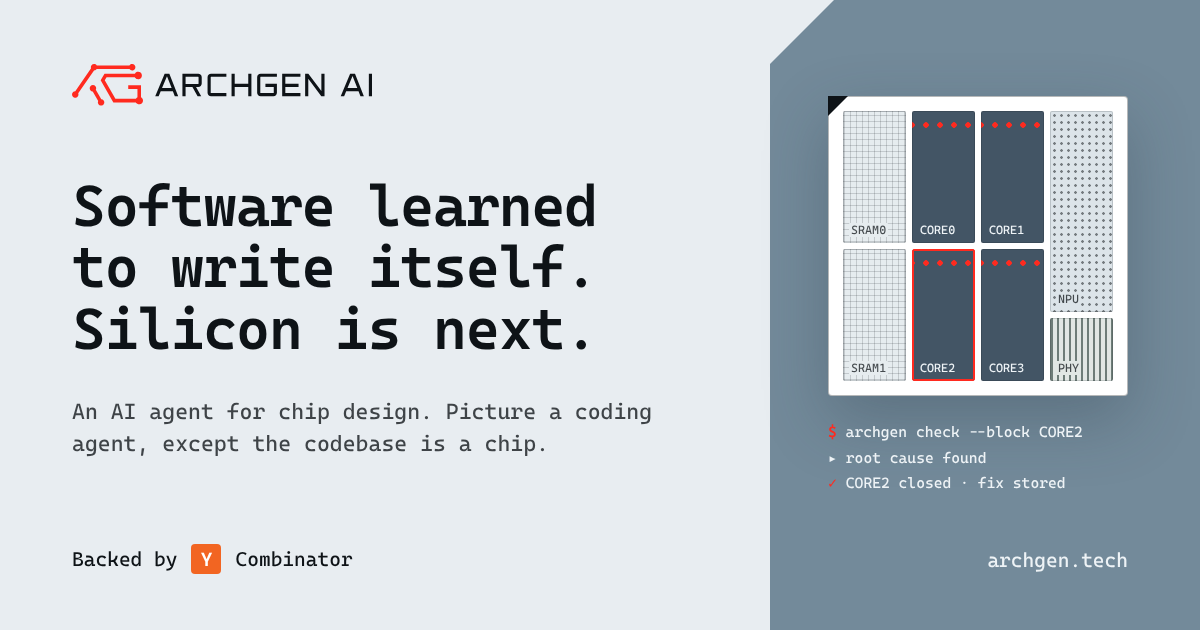
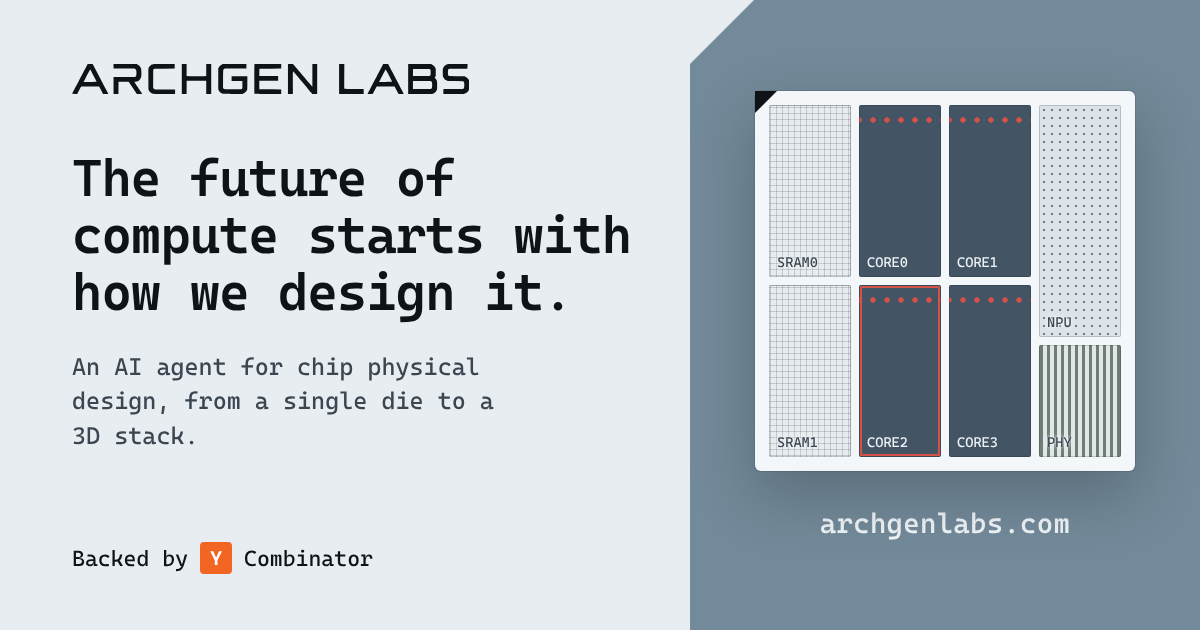
Brand, share image and domain
- One name: Archgen Labs. New 1200x630 share image built from code
  (tools/social/og.html, rendered by og.mjs): the ARCHGEN LABS wordmark, the
  live headline and pitch, the CORE2 die, archgenlabs.com. Nothing under 22px,
  so it reads in a link preview; the old terminal lines are gone.
- YC links point to ycombinator.com/companies/archgen-labs (also in sameAs).
- Every site URL (canonical, og:url, JSON-LD, sitemap, robots, llms.txt, the
  posts) moves to https://archgenlabs.com; the archgen.tech email addresses stay.
- vercel.json redirects archgen.tech, www.archgen.tech and www.archgenlabs.com
  to archgenlabs.com (308, path kept).

Claude-Session: https://claude.ai/code/session_01FwtTGFkR6uYDFri7sZxhW6

diff --git a/index.html b/index.html
@@ -10,7 +10,7 @@ if(location.protocol==="file:")document.write('<script src="'+(/\/blog\/posts\//
 <meta name="viewport" content="width=device-width, initial-scale=1, viewport-fit=cover">
 <title>Archgen Labs | The future of compute starts with how we design it.</title>
 <meta name="description" content="Archgen Labs builds an AI agent for chip physical design. It reads timing, DRC and congestion evidence, patches the flow, and keeps every fix. Backed by YC.">
-<link rel="canonical" href="https://archgen.tech/">
+<link rel="canonical" href="https://archgenlabs.com/">
 <meta name="robots" content="index, follow, max-image-preview:large">
 <meta name="author" content="Archgen Labs">
 <link rel="icon" type="image/svg+xml" href="assets/logo/archgen-ai-favicon-red.svg">
@@ -19,10 +19,10 @@ if(location.protocol==="file:")document.write('<script src="'+(/\/blog\/posts\//
 <!-- social cards -->
 <meta property="og:type" content="website">
 <meta property="og:site_name" content="Archgen Labs">
-<meta property="og:url" content="https://archgen.tech/">
+<meta property="og:url" content="https://archgenlabs.com/">
 <meta property="og:title" content="Archgen Labs | The future of compute starts with how we design it.">
 <meta property="og:description" content="The future of compute starts with how we design it. An AI agent for chip physical design, from a single die to a 3D stack.">
-<meta property="og:image" content="https://archgen.tech/assets/social/og-1200x630.png">
+<meta property="og:image" content="https://archgenlabs.com/assets/social/og-1200x630.png">
 <meta property="og:image:width" content="1200">
 <meta property="og:image:height" content="630">
 <meta property="og:image:alt" content="Archgen Labs: The future of compute starts with how we design it. A chip floorplan with the agent closing block CORE2.">
@@ -31,7 +31,7 @@ if(location.protocol==="file:")document.write('<script src="'+(/\/blog\/posts\//
 <meta name="twitter:site" content="@archgen_">
 <meta name="twitter:title" content="Archgen Labs | The future of compute starts with how we design it.">
 <meta name="twitter:description" content="The future of compute starts with how we design it. An AI agent for chip physical design, from a single die to a 3D stack.">
-<meta name="twitter:image" content="https://archgen.tech/assets/social/og-1200x630.png">
+<meta name="twitter:image" content="https://archgenlabs.com/assets/social/og-1200x630.png">
 <meta name="twitter:image:alt" content="Archgen Labs: The future of compute starts with how we design it.">
 <!-- structured data: who Archgen is, for search engines and AI assistants -->
 <script type="application/ld+json">
@@ -40,20 +40,20 @@ if(location.protocol==="file:")document.write('<script src="'+(/\/blog\/posts\//
  "@graph": [
   {
    "@type": "Organization",
-   "@id": "https://archgen.tech/#org",
+   "@id": "https://archgenlabs.com/#org",
    "name": "Archgen Labs",
    "alternateName": [
     "Archgen",
     "Archgen Labs"
    ],
-   "url": "https://archgen.tech/",
+   "url": "https://archgenlabs.com/",
    "logo": {
     "@type": "ImageObject",
-    "url": "https://archgen.tech/assets/logo/archgen-ai-icon-512.png",
+    "url": "https://archgenlabs.com/assets/logo/archgen-ai-icon-512.png",
     "width": 512,
     "height": 512
    },
-   "image": "https://archgen.tech/assets/social/og-1200x630.png",
+   "image": "https://archgenlabs.com/assets/social/og-1200x630.png",
    "description": "Archgen Labs is building an AI agent for chip design: a coding agent where the codebase is a chip. It reads run evidence (timing, DRC, congestion, logs), finds the root cause, patches the physical design flow (floorplan.tcl, constraints.sdc) and keeps what worked for the next block.",
    "slogan": "The future of compute starts with how we design it.",
    "email": "hari@archgen.tech",
@@ -96,6 +96,7 @@ if(location.protocol==="file:")document.write('<script src="'+(/\/blog\/posts\//
    ],
    "award": "Rank #1 on the IBM macro-placement benchmarks in the HRT × Partcl challenge",
    "sameAs": [
+    "https://www.ycombinator.com/companies/archgen-labs",
     "https://x.com/archgen_",
     "https://github.com/archgen-ai",
     "https://www.linkedin.com/company/archgen-ai"
@@ -103,12 +104,12 @@ if(location.protocol==="file:")document.write('<script src="'+(/\/blog\/posts\//
   },
   {
    "@type": "WebSite",
-   "@id": "https://archgen.tech/#website",
-   "url": "https://archgen.tech/",
+   "@id": "https://archgenlabs.com/#website",
+   "url": "https://archgenlabs.com/",
    "name": "Archgen Labs",
    "description": "Archgen Labs builds an AI agent for chip physical design. It reads timing, DRC and congestion evidence, patches the flow, and keeps every fix. Backed by YC.",
    "publisher": {
-    "@id": "https://archgen.tech/#org"
+    "@id": "https://archgenlabs.com/#org"
    },
    "inLanguage": "en"
   }
@@ -117,7 +118,7 @@ if(location.protocol==="file:")document.write('<script src="'+(/\/blog\/posts\//
 </script>
 <link rel="alternate" type="text/plain" href="llms.txt" title="Archgen Labs for language models">
 <!-- Set this to Archgen's YC company page once YC lists it; every "Backed by Y Combinator" link follows. -->
-<meta name="archgen:yc-url" content="https://www.ycombinator.com/">
+<meta name="archgen:yc-url" content="https://www.ycombinator.com/companies/archgen-labs">
 <link rel="preload" as="font" type="font/woff2" href="assets/fonts/cascadia-code-latin.woff2" crossorigin>
 <style>
 /* Cascadia Code (SIL OFL 1.1), self-hosted: same-origin and preloaded, so text lays out once in the real font */
@@ -984,7 +985,7 @@ main{position:relative;z-index:1;background:var(--ink);display:flow-root}
         <p class="xsub">An AI agent for chip physical design, from a single die to a 3D&nbsp;stack.</p>
         <div class="xact">
           <a class="pill xcta" href="#contact">Contact us <span aria-hidden="true">→</span></a>
-          <a class="xyc" href="https://www.ycombinator.com/" data-yc target="_blank" rel="noopener">Backed by <span class="ycm">Y</span> Combinator</a>
+          <a class="xyc" href="https://www.ycombinator.com/companies/archgen-labs" data-yc target="_blank" rel="noopener">Backed by <span class="ycm">Y</span> Combinator</a>
         </div>
         <div class="asks" role="group" aria-labelledby="asks-h">
           <span class="asks-h" id="asks-h">Ask the agent</span>
@@ -1057,7 +1058,7 @@ main{position:relative;z-index:1;background:var(--ink);display:flow-root}
       <p class="lede">It reads every run, finds why a block is failing, patches the flow and reruns. What worked carries over to the next block, on one die or across a stack.</p>
     </div>
     <dl class="xstats">
-      <div><dt>Backed by</dt><dd><a class="yc" href="https://www.ycombinator.com/" data-yc target="_blank" rel="noopener"><i>Y</i><b>Combinator</b></a></dd></div>
+      <div><dt>Backed by</dt><dd><a class="yc" href="https://www.ycombinator.com/companies/archgen-labs" data-yc target="_blank" rel="noopener"><i>Y</i><b>Combinator</b></a></dd></div>
     </dl>
   </section>
 
@@ -1367,7 +1368,7 @@ main{position:relative;z-index:1;background:var(--ink);display:flow-root}
   // touching document.fonts.ready forces a layout, so even that waits for idle time
   defer(() => { buildRail(); if(document.fonts && document.fonts.ready) document.fonts.ready.then(() => defer(buildRail)); });
 
-  const YC_URL = (document.querySelector('meta[name="archgen:yc-url"]') || {}).content || 'https://www.ycombinator.com/';
+  const YC_URL = (document.querySelector('meta[name="archgen:yc-url"]') || {}).content || 'https://www.ycombinator.com/companies/archgen-labs';
   document.querySelectorAll('a[data-yc]').forEach(a => { a.href = YC_URL; });
 
   /* ---------------- glyph decode ---------------- */

diff --git a/blog/posts/how-we-ranked-first-in-the-partcl.html b/blog/posts/how-we-ranked-first-in-the-partcl.html
@@ -10,21 +10,21 @@ if(location.protocol==="file:")document.write('<script src="'+(/\/blog\/posts\//
 <meta name="viewport" content="width=device-width, initial-scale=1, viewport-fit=cover">
 <title>How We Ranked First in the HRT (Hudson River Trading) and Partcl Macro Placement Challenge | Archgen Labs</title>
 <meta name="description" content="A technical write-up of the approach behind our verified rank-1 score on the IBM macro-placement benchmarks.">
-<link rel="canonical" href="https://archgen.tech/blog/posts/how-we-ranked-first-in-the-partcl.html">
+<link rel="canonical" href="https://archgenlabs.com/blog/posts/how-we-ranked-first-in-the-partcl.html">
 <meta name="author" content="Naveen Venkat &amp; Hariharan Ayappane">
 <meta name="theme-color" content="#E8EDF1">
 <link rel="icon" type="image/svg+xml" href="../../assets/logo/archgen-ai-favicon-red.svg">
 <link rel="apple-touch-icon" href="../../assets/logo/apple-touch-icon.png">
 <meta property="og:type" content="article">
 <meta property="og:site_name" content="Archgen Labs">
-<meta property="og:url" content="https://archgen.tech/blog/posts/how-we-ranked-first-in-the-partcl.html">
+<meta property="og:url" content="https://archgenlabs.com/blog/posts/how-we-ranked-first-in-the-partcl.html">
 <meta property="og:title" content="How We Ranked First in the HRT (Hudson River Trading) and Partcl Macro Placement Challenge">
 <meta property="og:description" content="A technical write-up of the approach behind our verified rank-1 score on the IBM macro-placement benchmarks.">
-<meta property="og:image" content="https://archgen.tech/assets/social/og-1200x630.png">
+<meta property="og:image" content="https://archgenlabs.com/assets/social/og-1200x630.png">
 <meta property="article:published_time" content="2026-06-20">
 <meta name="twitter:card" content="summary_large_image">
 <meta name="twitter:site" content="@archgen_">
-<script type="application/ld+json">{"@context": "https://schema.org", "@type": "BlogPosting", "headline": "How We Ranked First in the HRT (Hudson River Trading) and Partcl Macro Placement Challenge", "description": "A technical write-up of the approach behind our verified rank-1 score on the IBM macro-placement benchmarks.", "datePublished": "2026-06-20", "url": "https://archgen.tech/blog/posts/how-we-ranked-first-in-the-partcl.html", "mainEntityOfPage": "https://archgen.tech/blog/posts/how-we-ranked-first-in-the-partcl.html", "author": [{"@type": "Person", "name": "Naveen Venkat"}, {"@type": "Person", "name": "Hariharan Ayappane"}], "publisher": {"@type": "Organization", "name": "Archgen Labs", "url": "https://archgen.tech/", "logo": {"@type": "ImageObject", "url": "https://archgen.tech/assets/logo/archgen-ai-icon-512.png"}}, "image": "https://archgen.tech/assets/social/og-1200x630.png"}</script>
+<script type="application/ld+json">{"@context": "https://schema.org", "@type": "BlogPosting", "headline": "How We Ranked First in the HRT (Hudson River Trading) and Partcl Macro Placement Challenge", "description": "A technical write-up of the approach behind our verified rank-1 score on the IBM macro-placement benchmarks.", "datePublished": "2026-06-20", "url": "https://archgenlabs.com/blog/posts/how-we-ranked-first-in-the-partcl.html", "mainEntityOfPage": "https://archgenlabs.com/blog/posts/how-we-ranked-first-in-the-partcl.html", "author": [{"@type": "Person", "name": "Naveen Venkat"}, {"@type": "Person", "name": "Hariharan Ayappane"}], "publisher": {"@type": "Organization", "name": "Archgen Labs", "url": "https://archgenlabs.com/", "logo": {"@type": "ImageObject", "url": "https://archgenlabs.com/assets/logo/archgen-ai-icon-512.png"}}, "image": "https://archgenlabs.com/assets/social/og-1200x630.png"}</script>
 <link rel="preload" as="font" type="font/woff2" href="../../assets/fonts/cascadia-code-latin.woff2" crossorigin>
 <link rel="stylesheet" href="../post.css">
 <style>.ag-fig,.fig{margin:0}.fig-plate{position:relative;aspect-ratio:16/11;border-radius:14px;background:#f7fafb;box-shadow:0 0 0 1px #738a9a;overflow:hidden;outline:none;isolation:isolate}.fig-plate:focus-visible{box-shadow:0 0 0 1px #738a9a,0 0 0 3px #d65148}.fig-poster,.fig-poster img,.ag3d-canvas{position:absolute;inset:0;width:100%;height:100%;display:block}.fig-poster img{object-fit:cover}.ag3d-canvas{opacity:0;transition:opacity .35s cubic-bezier(.2,.9,.3,1);cursor:grab;touch-action:pan-y}.ag3d-canvas:active{cursor:grabbing}.is-3d .ag3d-canvas{opacity:1}.is-live .fig-poster{visibility:hidden}.fig-corner{position:absolute;z-index:1;pointer-events:none;color:#0e131799;font:10.5px/1 Cascadia Code,ui-monospace,Consolas,monospace;letter-spacing:.04em;white-space:nowrap}.fig-corner[data-corner=fig]{top:18px;left:20px;color:#0e1317bd}.fig-corner[data-corner=title]{top:18px;right:20px;text-transform:uppercase;letter-spacing:.1em}.fig-corner[data-corner=hint]{bottom:18px;left:20px;text-transform:uppercase;letter-spacing:.1em}.fig-corner[data-corner=readout]{bottom:18px;right:20px;color:#0e1317bd;font-variant-numeric:tabular-nums}.fig-keys{display:flex;flex-wrap:wrap;gap:6px 18px;margin-top:12px;font:13px/1.55 Cascadia Code,ui-monospace,Consolas,monospace;color:#0e1317bd}.fig-key{display:inline-flex;align-items:center;gap:8px}.fig-key:before{content:"";flex:none;width:8px;height:8px;border:1.5px solid #435565;border-radius:1.5px;transform:rotate(45deg) skew(-12deg,-12deg)}.fig-key[data-mark=red]:before{border-color:#d65148;background:#d6514824}@media (max-width:560px){.fig-plate{aspect-ratio:10/9}.fig-corner[data-corner=fig],.fig-corner[data-corner=title]{top:14px}.fig-corner[data-corner=fig],.fig-corner[data-corner=hint]{left:14px}.fig-corner[data-corner=title],.fig-corner[data-corner=readout]{right:14px}.fig-corner[data-corner=hint]{bottom:32px}.fig-corner[data-corner=readout]{bottom:14px}}

diff --git a/blog/posts/why-chip-design-takes-18-months.html b/blog/posts/why-chip-design-takes-18-months.html
@@ -10,21 +10,21 @@ if(location.protocol==="file:")document.write('<script src="'+(/\/blog\/posts\//
 <meta name="viewport" content="width=device-width, initial-scale=1, viewport-fit=cover">
 <title>Why Chip Design Still Takes 18 Months, and What AI Can Actually Fix | Archgen Labs</title>
 <meta name="description" content="The semiconductor industry designs chips the same way it did a decade ago. That&#x27;s about to change.">
-<link rel="canonical" href="https://archgen.tech/blog/posts/why-chip-design-takes-18-months.html">
+<link rel="canonical" href="https://archgenlabs.com/blog/posts/why-chip-design-takes-18-months.html">
 <meta name="author" content="Hariharan Ayappane &amp; Naveen Venkat">
 <meta name="theme-color" content="#E8EDF1">
 <link rel="icon" type="image/svg+xml" href="../../assets/logo/archgen-ai-favicon-red.svg">
 <link rel="apple-touch-icon" href="../../assets/logo/apple-touch-icon.png">
 <meta property="og:type" content="article">
 <meta property="og:site_name" content="Archgen Labs">
-<meta property="og:url" content="https://archgen.tech/blog/posts/why-chip-design-takes-18-months.html">
+<meta property="og:url" content="https://archgenlabs.com/blog/posts/why-chip-design-takes-18-months.html">
 <meta property="og:title" content="Why Chip Design Still Takes 18 Months, and What AI Can Actually Fix">
 <meta property="og:description" content="The semiconductor industry designs chips the same way it did a decade ago. That&#x27;s about to change.">
-<meta property="og:image" content="https://archgen.tech/assets/social/og-1200x630.png">
+<meta property="og:image" content="https://archgenlabs.com/assets/social/og-1200x630.png">
 <meta property="article:published_time" content="2026-04-06">
 <meta name="twitter:card" content="summary_large_image">
 <meta name="twitter:site" content="@archgen_">
-<script type="application/ld+json">{"@context": "https://schema.org", "@type": "BlogPosting", "headline": "Why Chip Design Still Takes 18 Months, and What AI Can Actually Fix", "description": "The semiconductor industry designs chips the same way it did a decade ago. That's about to change.", "datePublished": "2026-04-06", "url": "https://archgen.tech/blog/posts/why-chip-design-takes-18-months.html", "mainEntityOfPage": "https://archgen.tech/blog/posts/why-chip-design-takes-18-months.html", "author": [{"@type": "Person", "name": "Hariharan Ayappane"}, {"@type": "Person", "name": "Naveen Venkat"}], "publisher": {"@type": "Organization", "name": "Archgen Labs", "url": "https://archgen.tech/", "logo": {"@type": "ImageObject", "url": "https://archgen.tech/assets/logo/archgen-ai-icon-512.png"}}, "image": "https://archgen.tech/assets/social/og-1200x630.png"}</script>
+<script type="application/ld+json">{"@context": "https://schema.org", "@type": "BlogPosting", "headline": "Why Chip Design Still Takes 18 Months, and What AI Can Actually Fix", "description": "The semiconductor industry designs chips the same way it did a decade ago. That's about to change.", "datePublished": "2026-04-06", "url": "https://archgenlabs.com/blog/posts/why-chip-design-takes-18-months.html", "mainEntityOfPage": "https://archgenlabs.com/blog/posts/why-chip-design-takes-18-months.html", "author": [{"@type": "Person", "name": "Hariharan Ayappane"}, {"@type": "Person", "name": "Naveen Venkat"}], "publisher": {"@type": "Organization", "name": "Archgen Labs", "url": "https://archgenlabs.com/", "logo": {"@type": "ImageObject", "url": "https://archgenlabs.com/assets/logo/archgen-ai-icon-512.png"}}, "image": "https://archgenlabs.com/assets/social/og-1200x630.png"}</script>
 <link rel="preload" as="font" type="font/woff2" href="../../assets/fonts/cascadia-code-latin.woff2" crossorigin>
 <link rel="stylesheet" href="../post.css">
 <style>.ag-fig,.fig{margin:0}.fig-plate{position:relative;aspect-ratio:16/11;border-radius:14px;background:#f7fafb;box-shadow:0 0 0 1px #738a9a;overflow:hidden;outline:none;isolation:isolate}.fig-plate:focus-visible{box-shadow:0 0 0 1px #738a9a,0 0 0 3px #d65148}.fig-poster,.fig-poster img,.ag3d-canvas{position:absolute;inset:0;width:100%;height:100%;display:block}.fig-poster img{object-fit:cover}.ag3d-canvas{opacity:0;transition:opacity .35s cubic-bezier(.2,.9,.3,1);cursor:grab;touch-action:pan-y}.ag3d-canvas:active{cursor:grabbing}.is-3d .ag3d-canvas{opacity:1}.is-live .fig-poster{visibility:hidden}.fig-corner{position:absolute;z-index:1;pointer-events:none;color:#0e131799;font:10.5px/1 Cascadia Code,ui-monospace,Consolas,monospace;letter-spacing:.04em;white-space:nowrap}.fig-corner[data-corner=fig]{top:18px;left:20px;color:#0e1317bd}.fig-corner[data-corner=title]{top:18px;right:20px;text-transform:uppercase;letter-spacing:.1em}.fig-corner[data-corner=hint]{bottom:18px;left:20px;text-transform:uppercase;letter-spacing:.1em}.fig-corner[data-corner=readout]{bottom:18px;right:20px;color:#0e1317bd;font-variant-numeric:tabular-nums}.fig-keys{display:flex;flex-wrap:wrap;gap:6px 18px;margin-top:12px;font:13px/1.55 Cascadia Code,ui-monospace,Consolas,monospace;color:#0e1317bd}.fig-key{display:inline-flex;align-items:center;gap:8px}.fig-key:before{content:"";flex:none;width:8px;height:8px;border:1.5px solid #435565;border-radius:1.5px;transform:rotate(45deg) skew(-12deg,-12deg)}.fig-key[data-mark=red]:before{border-color:#d65148;background:#d6514824}@media (max-width:560px){.fig-plate{aspect-ratio:10/9}.fig-corner[data-corner=fig],.fig-corner[data-corner=title]{top:14px}.fig-corner[data-corner=fig],.fig-corner[data-corner=hint]{left:14px}.fig-corner[data-corner=title],.fig-corner[data-corner=readout]{right:14px}.fig-corner[data-corner=hint]{bottom:32px}.fig-corner[data-corner=readout]{bottom:14px}}

diff --git a/blog/posts/disrupting-semiconductor-ai-agents.html b/blog/posts/disrupting-semiconductor-ai-agents.html
@@ -10,21 +10,21 @@ if(location.protocol==="file:")document.write('<script src="'+(/\/blog\/posts\//
 <meta name="viewport" content="width=device-width, initial-scale=1, viewport-fit=cover">
 <title>On Disrupting the Semiconductor Industry with AI Agents | Archgen Labs</title>
 <meta name="description" content="Accelerating chip design of CPUs, GPUs and TPUs using an ecosystem of AI agents">
-<link rel="canonical" href="https://archgen.tech/blog/posts/disrupting-semiconductor-ai-agents.html">
+<link rel="canonical" href="https://archgenlabs.com/blog/posts/disrupting-semiconductor-ai-agents.html">
 <meta name="author" content="Hariharan Ayappane &amp; Naveen Venkat">
 <meta name="theme-color" content="#E8EDF1">
 <link rel="icon" type="image/svg+xml" href="../../assets/logo/archgen-ai-favicon-red.svg">
 <link rel="apple-touch-icon" href="../../assets/logo/apple-touch-icon.png">
 <meta property="og:type" content="article">
 <meta property="og:site_name" content="Archgen Labs">
-<meta property="og:url" content="https://archgen.tech/blog/posts/disrupting-semiconductor-ai-agents.html">
+<meta property="og:url" content="https://archgenlabs.com/blog/posts/disrupting-semiconductor-ai-agents.html">
 <meta property="og:title" content="On Disrupting the Semiconductor Industry with AI Agents">
 <meta property="og:description" content="Accelerating chip design of CPUs, GPUs and TPUs using an ecosystem of AI agents">
-<meta property="og:image" content="https://archgen.tech/assets/social/og-1200x630.png">
+<meta property="og:image" content="https://archgenlabs.com/assets/social/og-1200x630.png">
 <meta property="article:published_time" content="2025-12-17">
 <meta name="twitter:card" content="summary_large_image">
 <meta name="twitter:site" content="@archgen_">
-<script type="application/ld+json">{"@context": "https://schema.org", "@type": "BlogPosting", "headline": "On Disrupting the Semiconductor Industry with AI Agents", "description": "Accelerating chip design of CPUs, GPUs and TPUs using an ecosystem of AI agents", "datePublished": "2025-12-17", "url": "https://archgen.tech/blog/posts/disrupting-semiconductor-ai-agents.html", "mainEntityOfPage": "https://archgen.tech/blog/posts/disrupting-semiconductor-ai-agents.html", "author": [{"@type": "Person", "name": "Hariharan Ayappane"}, {"@type": "Person", "name": "Naveen Venkat"}], "publisher": {"@type": "Organization", "name": "Archgen Labs", "url": "https://archgen.tech/", "logo": {"@type": "ImageObject", "url": "https://archgen.tech/assets/logo/archgen-ai-icon-512.png"}}, "image": "https://archgen.tech/assets/social/og-1200x630.png"}</script>
+<script type="application/ld+json">{"@context": "https://schema.org", "@type": "BlogPosting", "headline": "On Disrupting the Semiconductor Industry with AI Agents", "description": "Accelerating chip design of CPUs, GPUs and TPUs using an ecosystem of AI agents", "datePublished": "2025-12-17", "url": "https://archgenlabs.com/blog/posts/disrupting-semiconductor-ai-agents.html", "mainEntityOfPage": "https://archgenlabs.com/blog/posts/disrupting-semiconductor-ai-agents.html", "author": [{"@type": "Person", "name": "Hariharan Ayappane"}, {"@type": "Person", "name": "Naveen Venkat"}], "publisher": {"@type": "Organization", "name": "Archgen Labs", "url": "https://archgenlabs.com/", "logo": {"@type": "ImageObject", "url": "https://archgenlabs.com/assets/logo/archgen-ai-icon-512.png"}}, "image": "https://archgenlabs.com/assets/social/og-1200x630.png"}</script>
 <link rel="preload" as="font" type="font/woff2" href="../../assets/fonts/cascadia-code-latin.woff2" crossorigin>
 <link rel="stylesheet" href="../post.css">
 <style>.ag-fig,.fig{margin:0}.fig-plate{position:relative;aspect-ratio:16/11;border-radius:14px;background:#f7fafb;box-shadow:0 0 0 1px #738a9a;overflow:hidden;outline:none;isolation:isolate}.fig-plate:focus-visible{box-shadow:0 0 0 1px #738a9a,0 0 0 3px #d65148}.fig-poster,.fig-poster img,.ag3d-canvas{position:absolute;inset:0;width:100%;height:100%;display:block}.fig-poster img{object-fit:cover}.ag3d-canvas{opacity:0;transition:opacity .35s cubic-bezier(.2,.9,.3,1);cursor:grab;touch-action:pan-y}.ag3d-canvas:active{cursor:grabbing}.is-3d .ag3d-canvas{opacity:1}.is-live .fig-poster{visibility:hidden}.fig-corner{position:absolute;z-index:1;pointer-events:none;color:#0e131799;font:10.5px/1 Cascadia Code,ui-monospace,Consolas,monospace;letter-spacing:.04em;white-space:nowrap}.fig-corner[data-corner=fig]{top:18px;left:20px;color:#0e1317bd}.fig-corner[data-corner=title]{top:18px;right:20px;text-transform:uppercase;letter-spacing:.1em}.fig-corner[data-corner=hint]{bottom:18px;left:20px;text-transform:uppercase;letter-spacing:.1em}.fig-corner[data-corner=readout]{bottom:18px;right:20px;color:#0e1317bd;font-variant-numeric:tabular-nums}.fig-keys{display:flex;flex-wrap:wrap;gap:6px 18px;margin-top:12px;font:13px/1.55 Cascadia Code,ui-monospace,Consolas,monospace;color:#0e1317bd}.fig-key{display:inline-flex;align-items:center;gap:8px}.fig-key:before{content:"";flex:none;width:8px;height:8px;border:1.5px solid #435565;border-radius:1.5px;transform:rotate(45deg) skew(-12deg,-12deg)}.fig-key[data-mark=red]:before{border-color:#d65148;background:#d6514824}@media (max-width:560px){.fig-plate{aspect-ratio:10/9}.fig-corner[data-corner=fig],.fig-corner[data-corner=title]{top:14px}.fig-corner[data-corner=fig],.fig-corner[data-corner=hint]{left:14px}.fig-corner[data-corner=title],.fig-corner[data-corner=readout]{right:14px}.fig-corner[data-corner=hint]{bottom:32px}.fig-corner[data-corner=readout]{bottom:14px}}

diff --git a/blog/posts/cognitive-agents-next-era-silicon.html b/blog/posts/cognitive-agents-next-era-silicon.html
@@ -10,21 +10,21 @@ if(location.protocol==="file:")document.write('<script src="'+(/\/blog\/posts\//
 <meta name="viewport" content="width=device-width, initial-scale=1, viewport-fit=cover">
 <title>Cognitive Agents for the Next Era of Silicon | Archgen Labs</title>
 <meta name="description" content="Marrying Reinforcement Learning with Agentic Reasoning to accelerate Physical Design (PD)">
-<link rel="canonical" href="https://archgen.tech/blog/posts/cognitive-agents-next-era-silicon.html">
+<link rel="canonical" href="https://archgenlabs.com/blog/posts/cognitive-agents-next-era-silicon.html">
 <meta name="author" content="Hariharan Ayappane &amp; Naveen Venkat">
 <meta name="theme-color" content="#E8EDF1">
 <link rel="icon" type="image/svg+xml" href="../../assets/logo/archgen-ai-favicon-red.svg">
 <link rel="apple-touch-icon" href="../../assets/logo/apple-touch-icon.png">
 <meta property="og:type" content="article">
 <meta property="og:site_name" content="Archgen Labs">
-<meta property="og:url" content="https://archgen.tech/blog/posts/cognitive-agents-next-era-silicon.html">
+<meta property="og:url" content="https://archgenlabs.com/blog/posts/cognitive-agents-next-era-silicon.html">
 <meta property="og:title" content="Cognitive Agents for the Next Era of Silicon">
 <meta property="og:description" content="Marrying Reinforcement Learning with Agentic Reasoning to accelerate Physical Design (PD)">
-<meta property="og:image" content="https://archgen.tech/assets/social/og-1200x630.png">
+<meta property="og:image" content="https://archgenlabs.com/assets/social/og-1200x630.png">
 <meta property="article:published_time" content="2026-02-20">
 <meta name="twitter:card" content="summary_large_image">
 <meta name="twitter:site" content="@archgen_">
-<script type="application/ld+json">{"@context": "https://schema.org", "@type": "BlogPosting", "headline": "Cognitive Agents for the Next Era of Silicon", "description": "Marrying Reinforcement Learning with Agentic Reasoning to accelerate Physical Design (PD)", "datePublished": "2026-02-20", "url": "https://archgen.tech/blog/posts/cognitive-agents-next-era-silicon.html", "mainEntityOfPage": "https://archgen.tech/blog/posts/cognitive-agents-next-era-silicon.html", "author": [{"@type": "Person", "name": "Hariharan Ayappane"}, {"@type": "Person", "name": "Naveen Venkat"}], "publisher": {"@type": "Organization", "name": "Archgen Labs", "url": "https://archgen.tech/", "logo": {"@type": "ImageObject", "url": "https://archgen.tech/assets/logo/archgen-ai-icon-512.png"}}, "image": "https://archgen.tech/assets/social/og-1200x630.png"}</script>
+<script type="application/ld+json">{"@context": "https://schema.org", "@type": "BlogPosting", "headline": "Cognitive Agents for the Next Era of Silicon", "description": "Marrying Reinforcement Learning with Agentic Reasoning to accelerate Physical Design (PD)", "datePublished": "2026-02-20", "url": "https://archgenlabs.com/blog/posts/cognitive-agents-next-era-silicon.html", "mainEntityOfPage": "https://archgenlabs.com/blog/posts/cognitive-agents-next-era-silicon.html", "author": [{"@type": "Person", "name": "Hariharan Ayappane"}, {"@type": "Person", "name": "Naveen Venkat"}], "publisher": {"@type": "Organization", "name": "Archgen Labs", "url": "https://archgenlabs.com/", "logo": {"@type": "ImageObject", "url": "https://archgenlabs.com/assets/logo/archgen-ai-icon-512.png"}}, "image": "https://archgenlabs.com/assets/social/og-1200x630.png"}</script>
 <link rel="preload" as="font" type="font/woff2" href="../../assets/fonts/cascadia-code-latin.woff2" crossorigin>
 <link rel="stylesheet" href="../post.css">
 <style>.ag-fig,.fig{margin:0}.fig-plate{position:relative;aspect-ratio:16/11;border-radius:14px;background:#f7fafb;box-shadow:0 0 0 1px #738a9a;overflow:hidden;outline:none;isolation:isolate}.fig-plate:focus-visible{box-shadow:0 0 0 1px #738a9a,0 0 0 3px #d65148}.fig-poster,.fig-poster img,.ag3d-canvas{position:absolute;inset:0;width:100%;height:100%;display:block}.fig-poster img{object-fit:cover}.ag3d-canvas{opacity:0;transition:opacity .35s cubic-bezier(.2,.9,.3,1);cursor:grab;touch-action:pan-y}.ag3d-canvas:active{cursor:grabbing}.is-3d .ag3d-canvas{opacity:1}.is-live .fig-poster{visibility:hidden}.fig-corner{position:absolute;z-index:1;pointer-events:none;color:#0e131799;font:10.5px/1 Cascadia Code,ui-monospace,Consolas,monospace;letter-spacing:.04em;white-space:nowrap}.fig-corner[data-corner=fig]{top:18px;left:20px;color:#0e1317bd}.fig-corner[data-corner=title]{top:18px;right:20px;text-transform:uppercase;letter-spacing:.1em}.fig-corner[data-corner=hint]{bottom:18px;left:20px;text-transform:uppercase;letter-spacing:.1em}.fig-corner[data-corner=readout]{bottom:18px;right:20px;color:#0e1317bd;font-variant-numeric:tabular-nums}.fig-keys{display:flex;flex-wrap:wrap;gap:6px 18px;margin-top:12px;font:13px/1.55 Cascadia Code,ui-monospace,Consolas,monospace;color:#0e1317bd}.fig-key{display:inline-flex;align-items:center;gap:8px}.fig-key:before{content:"";flex:none;width:8px;height:8px;border:1.5px solid #435565;border-radius:1.5px;transform:rotate(45deg) skew(-12deg,-12deg)}.fig-key[data-mark=red]:before{border-color:#d65148;background:#d6514824}@media (max-width:560px){.fig-plate{aspect-ratio:10/9}.fig-corner[data-corner=fig],.fig-corner[data-corner=title]{top:14px}.fig-corner[data-corner=fig],.fig-corner[data-corner=hint]{left:14px}.fig-corner[data-corner=title],.fig-corner[data-corner=readout]{right:14px}.fig-corner[data-corner=hint]{bottom:32px}.fig-corner[data-corner=readout]{bottom:14px}}

diff --git a/tools/social/og.html b/tools/social/og.html
@@ -1,0 +1,59 @@
+<!doctype html>
+<!-- The link-preview card (1200×630). Edit the words or the die here, then render it:
+     node tools/social/og.mjs   →   assets/social/og-1200x630.png
+     Everything is set large enough to read in a small link preview: nothing under 22px. -->
+<html lang="en">
+<head>
+<meta charset="utf-8">
+<style>
+@font-face{font-family:'Cascadia Code';font-weight:200 700;src:url(../../assets/fonts/cascadia-code-latin.woff2) format('woff2')}
+:root{--ink:#E8EDF1;--paper:#0E1317;--paper-2:#3B4651;--steel:#738A9A;--slate:#435565;--flare:#D65148;--on-slate:#EEF3F6;--yc:#F26522}
+*{box-sizing:border-box}
+html,body{margin:0;width:1200px;height:630px;overflow:hidden;background:var(--ink);color:var(--paper);font-family:'Cascadia Code',ui-monospace,monospace}
+.card{position:relative;width:1200px;height:630px;display:grid;grid-template-columns:690px 510px}
+.copy{padding:64px 0 56px 72px;display:flex;flex-direction:column}
+.mark{height:30px;width:auto;align-self:flex-start;color:var(--paper);display:block}
+h1{margin:56px 24px 0 0;font-size:52px;line-height:1.1;font-weight:600;letter-spacing:-.02em}
+.pitch{margin:28px 0 0;font-size:24px;line-height:1.45;color:var(--paper-2);max-width:30ch}
+.yc{margin-top:auto;display:flex;align-items:center;gap:12px;font-size:22px}
+.yc i{font-style:normal;display:grid;place-items:center;width:32px;height:32px;border-radius:4px;background:var(--yc);color:#fff;font-weight:700;font-size:20px}
+.stage{position:relative;background:var(--steel);clip-path:polygon(64px 0,100% 0,100% 100%,0 100%,0 64px);display:flex;flex-direction:column;justify-content:center;align-items:center;gap:36px;padding:56px 48px}
+.die{width:380px;aspect-ratio:1;background:#F4F7F9;border-radius:6px;padding:14px;display:grid;gap:8px;
+  grid-template-columns:repeat(4,1fr);grid-template-rows:repeat(6,1fr);
+  grid-template-areas:"s0 c0 c1 n" "s0 c0 c1 n" "s0 c0 c1 n" "s1 c2 c3 n" "s1 c2 c3 p" "s1 c2 c3 p";
+  box-shadow:0 0 0 1px rgba(14,19,23,.12),0 24px 60px rgba(14,19,23,.25);position:relative}
+.die::before{content:"";position:absolute;left:0;top:0;border-style:solid;border-width:22px 22px 0 0;border-color:var(--paper) transparent transparent transparent}
+.b{position:relative;text-shadow:0 0 3px #F4F7F9,0 0 6px #F4F7F9;border:1px solid rgba(14,19,23,.18);border-radius:2px;display:flex;align-items:flex-end;padding:6px 7px;font-size:14px;color:var(--paper-2)}
+.sram{background-color:#E6ECEF;background-image:repeating-linear-gradient(0deg,rgba(14,19,23,.16) 0 1px,transparent 1px 6px),repeating-linear-gradient(90deg,rgba(14,19,23,.16) 0 1px,transparent 1px 6px)}
+.cpu{text-shadow:none;background-color:var(--slate);background-image:radial-gradient(circle,var(--flare) 0 2.4px,transparent 3px);background-size:14px 14px;background-position:6px 7px;background-repeat:repeat-x;color:var(--on-slate)}
+.cpu.hot{box-shadow:inset 0 0 0 2px var(--flare)}
+.npu{background-color:#DCE4E9;align-items:flex-end;background-image:radial-gradient(rgba(14,19,23,.5) 1.2px,transparent 1.6px);background-size:8px 8px}
+.phy{background-color:#E1E7E4;background-image:repeating-linear-gradient(90deg,rgba(104,119,114,.95) 0 3px,transparent 3px 7px)}
+.url{font-size:28px;font-weight:500;color:var(--on-slate);letter-spacing:.01em}
+</style>
+</head>
+<body>
+<div class="card">
+  <div class="copy">
+    <svg class="mark" id="mark" viewBox="0 0 2066 156" aria-label="Archgen Labs"></svg>
+    <h1>The future of compute starts with how we design it.</h1>
+    <p class="pitch">An AI agent for chip physical design, from a single die to a 3D stack.</p>
+    <div class="yc">Backed by <i>Y</i> Combinator</div>
+  </div>
+  <div class="stage">
+    <div class="die">
+      <div class="b sram" style="grid-area:s0">SRAM0</div><div class="b cpu" style="grid-area:c0">CORE0</div><div class="b cpu" style="grid-area:c1">CORE1</div><div class="b npu" style="grid-area:n">NPU</div>
+      <div class="b sram" style="grid-area:s1">SRAM1</div><div class="b cpu hot" style="grid-area:c2">CORE2</div><div class="b cpu" style="grid-area:c3">CORE3</div><div class="b phy" style="grid-area:p">PHY</div>
+    </div>
+    <div class="url">archgenlabs.com</div>
+  </div>
+</div>
+<script>
+  // the wordmark is the site's own vector file, so the card and the site never drift apart
+  fetch('../../assets/logo/archgen-labs-lockup.svg').then(r => r.text()).then(t => {
+    document.getElementById('mark').innerHTML = t.match(/<path[^>]*\/>/)[0].replace(/fill="[^"]*"/, 'fill="currentColor"');
+    document.body.dataset.ready = '1';
+  });
+</script>
+</body>
+</html>

diff --git a/tools/build_posts.py b/tools/build_posts.py
@@ -74,14 +74,14 @@ for i, slug in enumerate(order):
     newer = posts[order[i - 1]] if i > 0 else None
     older = posts[order[i + 1]] if i + 1 < len(order) else None
     authors = [a.strip() for a in p['authors'].split('&')]
-    url = f'https://archgen.tech/blog/posts/{slug}.html'
+    url = f'https://archgenlabs.com/blog/posts/{slug}.html'
     ld = {
         '@context': 'https://schema.org', '@type': 'BlogPosting', 'headline': p['title'], 'description': p['desc'],
         'datePublished': iso(p['date']), 'url': url, 'mainEntityOfPage': url,
         'author': [{'@type': 'Person', 'name': a} for a in authors],
-        'publisher': {'@type': 'Organization', 'name': 'Archgen Labs', 'url': 'https://archgen.tech/',
-                      'logo': {'@type': 'ImageObject', 'url': 'https://archgen.tech/assets/logo/archgen-ai-icon-512.png'}},
-        'image': 'https://archgen.tech/assets/social/og-1200x630.png',
+        'publisher': {'@type': 'Organization', 'name': 'Archgen Labs', 'url': 'https://archgenlabs.com/',
+                      'logo': {'@type': 'ImageObject', 'url': 'https://archgenlabs.com/assets/logo/archgen-ai-icon-512.png'}},
+        'image': 'https://archgenlabs.com/assets/social/og-1200x630.png',
     }
     more = []
     if newer: more.append(f'<a class="prev" href="{newer["slug"]}.html"><span class="dir">← Newer</span><span class="t">{e(newer["title"])}</span></a>')
@@ -117,7 +117,7 @@ for i, slug in enumerate(order):
 <meta property="og:url" content="{url}">
 <meta property="og:title" content="{e(p['title'])}">
 <meta property="og:description" content="{e(p['desc'])}">
-<meta property="og:image" content="https://archgen.tech/assets/social/og-1200x630.png">
+<meta property="og:image" content="https://archgenlabs.com/assets/social/og-1200x630.png">
 <meta property="article:published_time" content="{iso(p['date'])}">
 <meta name="twitter:card" content="summary_large_image">
 <meta name="twitter:site" content="@archgen_">
@@ -186,7 +186,7 @@ print('wrote index.html  blog list, %d posts' % len(order))
 sm_path = os.path.join(ROOT, 'sitemap.xml')
 sm = open(sm_path, encoding='utf-8').read()
 sm = re.sub(r'\s*<url>\s*<loc>https://archgen\.tech/blog/posts/[^<]*</loc>.*?</url>', '', sm, flags=re.S)
-entries = ''.join(f'\n  <url>\n    <loc>https://archgen.tech/blog/posts/{slug}.html</loc>\n    <lastmod>{iso(posts[slug]["date"])}</lastmod>\n  </url>'
+entries = ''.join(f'\n  <url>\n    <loc>https://archgenlabs.com/blog/posts/{slug}.html</loc>\n    <lastmod>{iso(posts[slug]["date"])}</lastmod>\n  </url>'
                   for slug in order)
 sm = sm.replace('\n</urlset>', entries + '\n</urlset>')
 open(sm_path, 'w', encoding='utf-8').write(sm)
